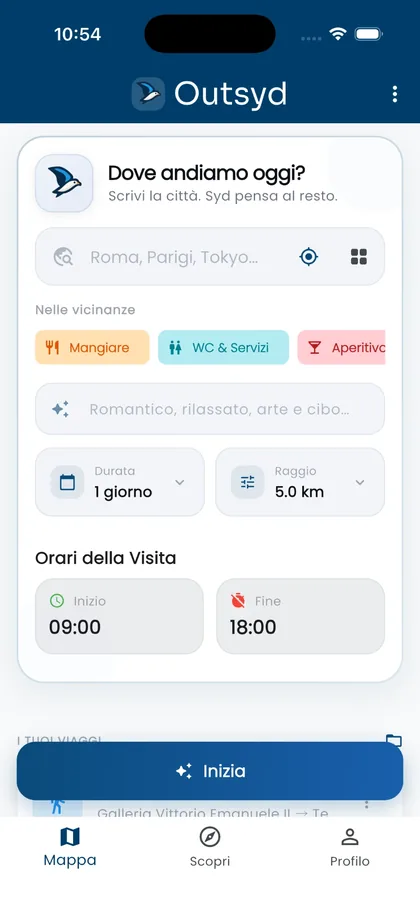
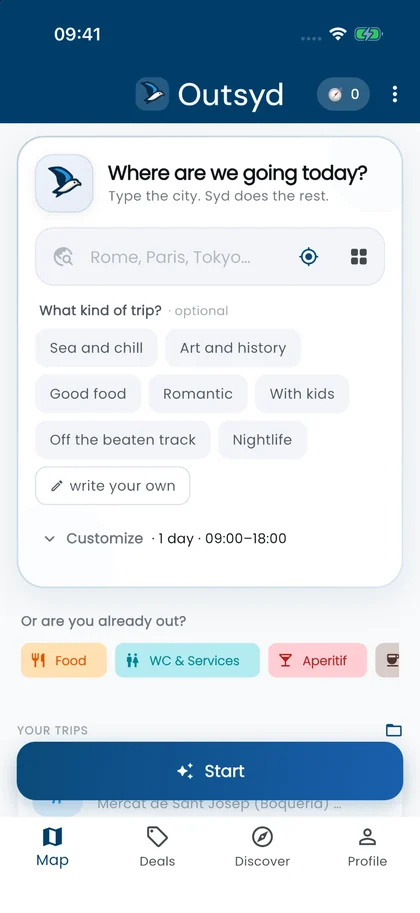
Lumia Italian Living, Zaptopia 1.43, English Outsyd screens
The sofa workshop site moved to lumiaitalianliving.com under its new
brand, so the old Netlify links returned 404. Update the name, links and
screenshots, and correct the case-study copy to match the current site.
Show Zaptopia 1.43, the version on the App Store. English pages now use
English Outsyd home and Rome screens; Italian pages keep the Italian ones.

diff --git a/it/work/nicoletti.html b/it/work/nicoletti.html
@@ -3,13 +3,13 @@
 <head>
   <meta charset="utf-8">
   <meta name="viewport" content="width=device-width, initial-scale=1">
-  <title>Nicoletti Raffaele — Sito vetrina · Gabriele Decandia</title>
+  <title>Lumia Italian Living — Sito vetrina · Gabriele Decandia</title>
   <meta name="description" content="Caso studio: un sito vetrina bilingue e senza cookie per un laboratorio artigianale di divani ad Altamura, con un catalogo rifatto partendo dalle foto scattate in laboratorio.">
   <link rel="canonical" href="https://gabrideca7.github.io/it/work/nicoletti.html">
   <link rel="alternate" hreflang="en" href="https://gabrideca7.github.io/work/nicoletti.html">
   <link rel="alternate" hreflang="it" href="https://gabrideca7.github.io/it/work/nicoletti.html">
   <meta property="og:type" content="article">
-  <meta property="og:title" content="Nicoletti Raffaele — Sito vetrina">
+  <meta property="og:title" content="Lumia Italian Living — Sito vetrina">
   <meta property="og:description" content="Un sito vetrina bilingue per un laboratorio artigianale di divani. Un caso studio di Gabriele Decandia.">
   <meta property="og:url" content="https://gabrideca7.github.io/it/work/nicoletti.html">
   <meta property="og:locale" content="it_IT">
@@ -55,14 +55,14 @@
     <section class="wrap cs-hero">
       <a class="cs-back" href="../#work"><span class="arrow" aria-hidden="true">←</span> Tutti i lavori</a>
       <div class="cs-kicker"><span class="label">Caso studio 03</span><span class="tag tag--live">Online</span></div>
-      <h1 class="cs-title cs-title--long">Nicoletti Raffaele</h1>
-      <p class="lede cs-sub">Un sito vetrina bilingue per un laboratorio artigianale di divani — <em>e un catalogo rifatto partendo dalle foto in laboratorio.</em></p>
+      <h1 class="cs-title cs-title--long">Lumia Italian Living</h1>
+      <p class="lede cs-sub">Un sito vetrina bilingue per un laboratorio artigianale di divani — <em>e un catalogo che sta tutto in un file di dati.</em></p>
 
       <dl class="grid cs-meta">
-        <div><dt class="label">Cliente</dt><dd>Nicoletti Raffaele — divani e letti su misura, Altamura</dd></div>
+        <div><dt class="label">Cliente</dt><dd>Lumia Italian Living (Nicoletti Raffaele) — divani e letti su misura, Altamura</dd></div>
         <div><dt class="label">Ruolo</dt><dd>Design, sviluppo, post-produzione delle immagini, testi</dd></div>
         <div><dt class="label">Tecnologie</dt><dd>HTML · CSS · JavaScript puro<br>Nessun framework, nessuna build</dd></div>
-        <div><dt class="label">Online</dt><dd><a href="https://nicolettiraffaele.netlify.app" target="_blank" rel="noopener">nicolettiraffaele.netlify.app</a><br>2026 · italiano e inglese</dd></div>
+        <div><dt class="label">Online</dt><dd><a href="https://lumiaitalianliving.com" target="_blank" rel="noopener">lumiaitalianliving.com</a><br>2026 · italiano e inglese</dd></div>
       </dl>
     </section>
 
@@ -70,8 +70,8 @@
       <div class="media media--site media--nicoletti">
         <div class="browser-wrap">
           <div class="browser">
-            <div class="browser-bar"><span class="browser-dots"><i></i><i></i><i></i></span><span class="browser-url">nicolettiraffaele.netlify.app</span><span></span></div>
-            <div class="browser-view"><img src="../../assets/img/nicoletti/desk-960.webp" srcset="../../assets/img/nicoletti/desk-960.webp 960w, ../../assets/img/nicoletti/desk-1600.webp 1600w" sizes="(max-width: 700px) 100vw, 64vw" width="960" height="600" alt="La home in inglese: un Chesterfield verde petrolio in una stanza arredata, sotto il titolo «Expertly crafted sofas and beds, made to measure for you»" decoding="async"></div>
+            <div class="browser-bar"><span class="browser-dots"><i></i><i></i><i></i></span><span class="browser-url">lumiaitalianliving.com</span><span></span></div>
+            <div class="browser-view"><img src="../../assets/img/nicoletti/desk-960.webp" srcset="../../assets/img/nicoletti/desk-960.webp 960w, ../../assets/img/nicoletti/desk-1600.webp 1600w" sizes="(max-width: 700px) 100vw, 64vw" width="960" height="600" alt="La home in inglese: un divano componibile in un salotto con vista, sotto il titolo «Expertly crafted sofas and beds, made to measure for you»" decoding="async"></div>
           </div>
         </div>
         <div class="phone phone--web" style="--sb:#31291f; --sbfg:#f4ece2"><div class="phone-screen"><span class="phone-status" aria-hidden="true">9:41<i></i></span><img src="../../assets/img/nicoletti/mobile-420.webp" srcset="../../assets/img/nicoletti/mobile-420.webp 420w, ../../assets/img/nicoletti/mobile-760.webp 760w" sizes="(max-width: 700px) 46vw, 15vw" width="420" height="909" alt="La home su smartphone" decoding="async"></div></div>
@@ -96,7 +96,7 @@
         <div class="cs-body">
           <p class="lede reveal">I prodotti erano bellissimi. Le foto erano scattate tra gommapiuma, telai ed <em>estintori.</em></p>
           <div class="prose reveal">
-            <p>Rifare tutto in studio non era possibile. Così ho scontornato ogni prodotto dalla foto originale con il framework Vision di Apple su macOS e l’ho inserito in un piccolo set di stanze generate — una parete, un pavimento, un tappeto, una lampada o un quadro — in modo che 36 prodotti in cinque collezioni sembrassero un unico catalogo.</p>
+            <p>Rifare tutto in studio non era possibile. Così ho scontornato ogni prodotto dalla foto originale con il framework Vision di Apple su macOS e l’ho inserito in un piccolo set di stanze generate — una parete, un pavimento, un tappeto, una lampada o un quadro — in modo che 36 prodotti in cinque collezioni sembrassero un unico catalogo. Così è nata la prima versione del sito. Oggi il laboratorio è diventato Lumia Italian Living, con dominio, logo e foto ufficiali propri, e lo stesso file di dati gestisce 30 prodotti in quattro collezioni.</p>
           </div>
         </div>
         <figure class="cs-full mt-m reveal">
@@ -141,16 +141,16 @@
           <div class="figure-panel" style="--bg: #e7ddd0">
             <div class="site-showcase">
               <div class="browser" tabindex="0" aria-label="Home completa — passa sopra o seleziona per scorrere">
-                <div class="browser-bar"><span class="browser-dots"><i></i><i></i><i></i></span><span class="browser-url">nicolettiraffaele.netlify.app</span><span></span></div>
+                <div class="browser-bar"><span class="browser-dots"><i></i><i></i><i></i></span><span class="browser-url">lumiaitalianliving.com</span><span></span></div>
                 <div class="browser-view browser-view--scroll">
-                  <img src="../../assets/img/nicoletti/full-1100.webp" width="1100" height="4736" alt="La home completa: apertura, la storia del laboratorio, quattro valori e le collezioni di divani, Chesterfield, divani letto e letti" loading="lazy" decoding="async">
+                  <img src="../../assets/img/nicoletti/full-1100.webp" width="1100" height="7956" alt="La home completa: apertura, la storia del laboratorio, quattro valori e le collezioni di divani, Chesterfield, divani letto e letti" loading="lazy" decoding="async">
                   <span class="scroll-hint">Passa sopra per scorrere</span>
                 </div>
               </div>
               <div class="phone phone--flow phone--web" style="--sb:#31291f; --sbfg:#f4ece2"><div class="phone-screen"><span class="phone-status" aria-hidden="true">9:41<i></i></span><img src="../../assets/img/nicoletti/mobile-420.webp" srcset="../../assets/img/nicoletti/mobile-420.webp 420w, ../../assets/img/nicoletti/mobile-760.webp 760w" sizes="(max-width: 800px) 260px, 22vw" width="420" height="909" alt="La home su smartphone, in inglese" loading="lazy" decoding="async"></div></div>
             </div>
           </div>
-          <figcaption class="fig-caption"><span>Il sito online.</span><a class="text-link" href="https://nicolettiraffaele.netlify.app/" target="_blank" rel="noopener">Visita nicolettiraffaele.netlify.app ↗</a></figcaption>
+          <figcaption class="fig-caption"><span>Il sito online.</span><a class="text-link" href="https://lumiaitalianliving.com/" target="_blank" rel="noopener">Visita lumiaitalianliving.com ↗</a></figcaption>
         </figure>
       </section>
     </div>

diff --git a/work/nicoletti.html b/work/nicoletti.html
@@ -3,13 +3,13 @@
 <head>
   <meta charset="utf-8">
   <meta name="viewport" content="width=device-width, initial-scale=1">
-  <title>Nicoletti Raffaele — Showcase website · Gabriele Decandia</title>
+  <title>Lumia Italian Living — Showcase website · Gabriele Decandia</title>
   <meta name="description" content="Case study: a bilingual, cookie-free showcase website for an artisan sofa workshop in Altamura, with a catalogue rebuilt from photos taken on the workshop floor.">
   <link rel="canonical" href="https://gabrideca7.github.io/work/nicoletti.html">
   <link rel="alternate" hreflang="en" href="https://gabrideca7.github.io/work/nicoletti.html">
   <link rel="alternate" hreflang="it" href="https://gabrideca7.github.io/it/work/nicoletti.html">
   <meta property="og:type" content="article">
-  <meta property="og:title" content="Nicoletti Raffaele — Showcase website">
+  <meta property="og:title" content="Lumia Italian Living — Showcase website">
   <meta property="og:description" content="A bilingual showcase for an artisan sofa workshop. A case study by Gabriele Decandia.">
   <meta property="og:url" content="https://gabrideca7.github.io/work/nicoletti.html">
   <meta property="og:image" content="https://gabrideca7.github.io/assets/img/og.jpg">
@@ -54,14 +54,14 @@
     <section class="wrap cs-hero">
       <a class="cs-back" href="../#work"><span class="arrow" aria-hidden="true">←</span> All work</a>
       <div class="cs-kicker"><span class="label">Case study 03</span><span class="tag tag--live">Live</span></div>
-      <h1 class="cs-title cs-title--long">Nicoletti Raffaele</h1>
-      <p class="lede cs-sub">A bilingual showcase for an artisan sofa workshop — <em>and a catalogue rebuilt from the workshop floor.</em></p>
+      <h1 class="cs-title cs-title--long">Lumia Italian Living</h1>
+      <p class="lede cs-sub">A bilingual showcase for an artisan sofa workshop — <em>and a catalogue that lives in one data file.</em></p>
 
       <dl class="grid cs-meta">
-        <div><dt class="label">Client</dt><dd>Nicoletti Raffaele — sofas and beds made to measure, Altamura</dd></div>
+        <div><dt class="label">Client</dt><dd>Lumia Italian Living (Nicoletti Raffaele) — sofas and beds made to measure, Altamura</dd></div>
         <div><dt class="label">Role</dt><dd>Design, development, image post-production, copy</dd></div>
         <div><dt class="label">Stack</dt><dd>HTML · CSS · vanilla JavaScript<br>No framework, no build step</dd></div>
-        <div><dt class="label">Live</dt><dd><a href="https://nicolettiraffaele.netlify.app" target="_blank" rel="noopener">nicolettiraffaele.netlify.app</a><br>2026 · Italian &amp; English</dd></div>
+        <div><dt class="label">Live</dt><dd><a href="https://lumiaitalianliving.com" target="_blank" rel="noopener">lumiaitalianliving.com</a><br>2026 · Italian &amp; English</dd></div>
       </dl>
     </section>
 
@@ -69,8 +69,8 @@
       <div class="media media--site media--nicoletti">
         <div class="browser-wrap">
           <div class="browser">
-            <div class="browser-bar"><span class="browser-dots"><i></i><i></i><i></i></span><span class="browser-url">nicolettiraffaele.netlify.app</span><span></span></div>
-            <div class="browser-view"><img src="../assets/img/nicoletti/desk-960.webp" srcset="../assets/img/nicoletti/desk-960.webp 960w, ../assets/img/nicoletti/desk-1600.webp 1600w" sizes="(max-width: 700px) 100vw, 64vw" width="960" height="600" alt="Homepage: a teal Chesterfield in a styled room with the headline “Expertly crafted sofas and beds, made to measure for you”" decoding="async"></div>
+            <div class="browser-bar"><span class="browser-dots"><i></i><i></i><i></i></span><span class="browser-url">lumiaitalianliving.com</span><span></span></div>
+            <div class="browser-view"><img src="../assets/img/nicoletti/desk-960.webp" srcset="../assets/img/nicoletti/desk-960.webp 960w, ../assets/img/nicoletti/desk-1600.webp 1600w" sizes="(max-width: 700px) 100vw, 64vw" width="960" height="600" alt="Homepage: a modular sofa in a living room with a view, with the headline “Expertly crafted sofas and beds, made to measure for you”" decoding="async"></div>
           </div>
         </div>
         <div class="phone phone--web" style="--sb:#31291f; --sbfg:#f4ece2"><div class="phone-screen"><span class="phone-status" aria-hidden="true">9:41<i></i></span><img src="../assets/img/nicoletti/mobile-420.webp" srcset="../assets/img/nicoletti/mobile-420.webp 420w, ../assets/img/nicoletti/mobile-760.webp 760w" sizes="(max-width: 700px) 46vw, 15vw" width="420" height="909" alt="The homepage on a phone" decoding="async"></div></div>
@@ -95,7 +95,7 @@
         <div class="cs-body">
           <p class="lede reveal">The products were beautiful. The photos were taken between foam, frames and <em>fire extinguishers.</em></p>
           <div class="prose reveal">
-            <p>A studio reshoot wasn’t on the table. Instead I cut each product out of its original photo with Apple’s Vision framework on macOS and composited it into a small set of generated rooms — a wall, a floor, a rug, a lamp or a framed print — so that 36 products across five collections read as one catalogue.</p>
+            <p>A studio reshoot wasn’t on the table. Instead I cut each product out of its original photo with Apple’s Vision framework on macOS and composited it into a small set of generated rooms — a wall, a floor, a rug, a lamp or a framed print — so that 36 products across five collections read as one catalogue. That carried the first version of the site. The workshop has since become Lumia Italian Living, with its own domain, logo and official photo set, and the same data file now runs 30 products in four collections.</p>
           </div>
         </div>
         <figure class="cs-full mt-m reveal">
@@ -140,16 +140,16 @@
           <div class="figure-panel" style="--bg: #e7ddd0">
             <div class="site-showcase">
               <div class="browser" tabindex="0" aria-label="Full homepage — hover or focus to scroll">
-                <div class="browser-bar"><span class="browser-dots"><i></i><i></i><i></i></span><span class="browser-url">nicolettiraffaele.netlify.app</span><span></span></div>
+                <div class="browser-bar"><span class="browser-dots"><i></i><i></i><i></i></span><span class="browser-url">lumiaitalianliving.com</span><span></span></div>
                 <div class="browser-view browser-view--scroll">
-                  <img src="../assets/img/nicoletti/full-1100.webp" width="1100" height="4736" alt="The full homepage: hero, workshop story, four values, and the sofa, Chesterfield, sofa-bed and bed collections" loading="lazy" decoding="async">
+                  <img src="../assets/img/nicoletti/full-1100.webp" width="1100" height="7956" alt="The full homepage: hero, workshop story, four values, and the sofa, Chesterfield, sofa-bed and bed collections" loading="lazy" decoding="async">
                   <span class="scroll-hint">Hover to scroll</span>
                 </div>
               </div>
               <div class="phone phone--flow phone--web" style="--sb:#31291f; --sbfg:#f4ece2"><div class="phone-screen"><span class="phone-status" aria-hidden="true">9:41<i></i></span><img src="../assets/img/nicoletti/mobile-420.webp" srcset="../assets/img/nicoletti/mobile-420.webp 420w, ../assets/img/nicoletti/mobile-760.webp 760w" sizes="(max-width: 800px) 260px, 22vw" width="420" height="909" alt="Mobile homepage in English" loading="lazy" decoding="async"></div></div>
             </div>
           </div>
-          <figcaption class="fig-caption"><span>The live site.</span><a class="text-link" href="https://nicolettiraffaele.netlify.app/?lang=en" target="_blank" rel="noopener">Visit nicolettiraffaele.netlify.app ↗</a></figcaption>
+          <figcaption class="fig-caption"><span>The live site.</span><a class="text-link" href="https://lumiaitalianliving.com/?lang=en" target="_blank" rel="noopener">Visit lumiaitalianliving.com ↗</a></figcaption>
         </figure>
       </section>
     </div>

diff --git a/it/index.html b/it/index.html
@@ -94,7 +94,7 @@
         </p>
         <dl class="hero-facts reveal" style="--delay: .12s">
           <div><dt class="label">Vivo a</dt><dd>Altamura, Puglia</dd></div>
-          <div><dt class="label">Adesso</dt><dd><span class="live-dot" aria-hidden="true"></span>Zaptopia 1.42 è su App Store — Android a novembre</dd></div>
+          <div><dt class="label">Adesso</dt><dd><span class="live-dot" aria-hidden="true"></span>Zaptopia 1.43 è su App Store — Android a novembre</dd></div>
           <div><dt class="label">Poi</dt><dd>Magistrale in Cybersecurity, Università di Pisa</dd></div>
           <div><dt class="label">Novembre</dt><dd>In viaggio negli Stati Uniti — incontriamoci</dd></div>
         </dl>
@@ -115,8 +115,8 @@
           <a class="media media--outsyd" href="work/outsyd.html" aria-label="Outsyd — leggi il caso studio">
             <img class="syd" src="../assets/img/outsyd/syd-360.webp" width="360" height="324" alt="" loading="lazy" decoding="async">
             <div class="phone"><div class="phone-screen"><img src="../assets/img/outsyd/napoli-420.webp" srcset="../assets/img/outsyd/napoli-420.webp 420w, ../assets/img/outsyd/napoli-760.webp 760w" sizes="(max-width: 700px) 42vw, 22vw" width="420" height="913" alt="Outsyd: l’itinerario di una giornata a Napoli disegnato sulla mappa" loading="lazy" decoding="async"></div></div>
-            <div class="phone"><div class="phone-screen"><img src="../assets/img/outsyd/home-420.webp" srcset="../assets/img/outsyd/home-420.webp 420w, ../assets/img/outsyd/home-760.webp 760w" sizes="(max-width: 700px) 52vw, 26vw" width="420" height="913" alt="La schermata iniziale di Outsyd: «Dove andiamo oggi?»" loading="lazy" decoding="async"></div></div>
-            <div class="phone"><div class="phone-screen"><img src="../assets/img/outsyd/roma-420.webp" srcset="../assets/img/outsyd/roma-420.webp 420w, ../assets/img/outsyd/roma-760.webp 760w" sizes="(max-width: 700px) 42vw, 22vw" width="420" height="913" alt="Outsyd: un percorso a piedi per Roma con le tappe numerate" loading="lazy" decoding="async"></div></div>
+            <div class="phone"><div class="phone-screen"><img src="../assets/img/outsyd/home-it-420.webp" srcset="../assets/img/outsyd/home-it-420.webp 420w, ../assets/img/outsyd/home-it-760.webp 760w" sizes="(max-width: 700px) 52vw, 26vw" width="420" height="913" alt="La schermata iniziale di Outsyd: «Dove andiamo oggi?»" loading="lazy" decoding="async"></div></div>
+            <div class="phone"><div class="phone-screen"><img src="../assets/img/outsyd/roma-it-420.webp" srcset="../assets/img/outsyd/roma-it-420.webp 420w, ../assets/img/outsyd/roma-it-760.webp 760w" sizes="(max-width: 700px) 42vw, 22vw" width="420" height="913" alt="Outsyd: un percorso a piedi per Roma con le tappe numerate" loading="lazy" decoding="async"></div></div>
             <span class="media-caption">iOS · Android · Online</span>
           </a>
           <div class="grid project-info">
@@ -164,19 +164,19 @@
         <!-- 03 + 04 Websites -->
         <div class="project-pair">
           <article class="project reveal">
-            <a class="media media--43 media--site media--nicoletti" href="work/nicoletti.html" aria-label="Nicoletti Raffaele — leggi il caso studio">
+            <a class="media media--43 media--site media--nicoletti" href="work/nicoletti.html" aria-label="Lumia Italian Living — leggi il caso studio">
               <div class="browser-wrap">
                 <div class="browser">
-                  <div class="browser-bar"><span class="browser-dots"><i></i><i></i><i></i></span><span class="browser-url">nicolettiraffaele.netlify.app</span><span></span></div>
-                  <div class="browser-view"><img src="../assets/img/nicoletti/desk-960.webp" srcset="../assets/img/nicoletti/desk-960.webp 960w, ../assets/img/nicoletti/desk-1600.webp 1600w" sizes="(max-width: 900px) 90vw, 40vw" width="960" height="600" alt="Il sito di Nicoletti Raffaele: un Chesterfield verde petrolio in una stanza arredata, versione inglese" loading="lazy" decoding="async"></div>
+                  <div class="browser-bar"><span class="browser-dots"><i></i><i></i><i></i></span><span class="browser-url">lumiaitalianliving.com</span><span></span></div>
+                  <div class="browser-view"><img src="../assets/img/nicoletti/desk-960.webp" srcset="../assets/img/nicoletti/desk-960.webp 960w, ../assets/img/nicoletti/desk-1600.webp 1600w" sizes="(max-width: 900px) 90vw, 40vw" width="960" height="600" alt="Il sito di Lumia Italian Living: un divano componibile in un salotto con vista, versione inglese" loading="lazy" decoding="async"></div>
                 </div>
               </div>
-              <div class="phone phone--web" style="--sb:#31291f; --sbfg:#f4ece2"><div class="phone-screen"><span class="phone-status" aria-hidden="true">9:41<i></i></span><img src="../assets/img/nicoletti/mobile-420.webp" srcset="../assets/img/nicoletti/mobile-420.webp 420w, ../assets/img/nicoletti/mobile-760.webp 760w" sizes="(max-width: 700px) 46vw, 10vw" width="420" height="909" alt="Il sito di Nicoletti Raffaele su smartphone, in inglese" loading="lazy" decoding="async"></div></div>
+              <div class="phone phone--web" style="--sb:#31291f; --sbfg:#f4ece2"><div class="phone-screen"><span class="phone-status" aria-hidden="true">9:41<i></i></span><img src="../assets/img/nicoletti/mobile-420.webp" srcset="../assets/img/nicoletti/mobile-420.webp 420w, ../assets/img/nicoletti/mobile-760.webp 760w" sizes="(max-width: 700px) 46vw, 10vw" width="420" height="909" alt="Il sito di Lumia Italian Living su smartphone, in inglese" loading="lazy" decoding="async"></div></div>
             </a>
             <div class="grid project-info">
               <span class="project-num mono">03</span>
-              <h3 class="project-title"><a href="work/nicoletti.html">Nicoletti Raffaele</a></h3>
-              <p class="project-desc">Sito vetrina bilingue per il laboratorio di divani di mio zio. Scritto a mano, senza cookie, con un catalogo che sta tutto in un file di dati — e ogni foto rifatta partendo dagli scatti in laboratorio.</p>
+              <h3 class="project-title"><a href="work/nicoletti.html">Lumia Italian Living</a></h3>
+              <p class="project-desc">Sito vetrina bilingue per il laboratorio di divani di mio zio. Scritto a mano, senza cookie, con un catalogo che sta tutto in un file di dati.</p>
               <div class="project-side">
                 <ul class="tags" aria-label="Tag">
                   <li class="tag tag--live">Online</li>

diff --git a/it/work/outsyd.html b/it/work/outsyd.html
@@ -70,8 +70,8 @@
       <div class="media media--outsyd">
         <img class="syd" src="../../assets/img/outsyd/syd-360.webp" width="360" height="324" alt="Syd, l’uccellino mascotte di Outsyd" decoding="async">
         <div class="phone"><div class="phone-screen"><img src="../../assets/img/outsyd/napoli-420.webp" srcset="../../assets/img/outsyd/napoli-420.webp 420w, ../../assets/img/outsyd/napoli-760.webp 760w" sizes="(max-width: 700px) 42vw, 22vw" width="420" height="913" alt="L’itinerario di una giornata a Napoli disegnato sulla mappa" decoding="async"></div></div>
-        <div class="phone"><div class="phone-screen"><img src="../../assets/img/outsyd/home-420.webp" srcset="../../assets/img/outsyd/home-420.webp 420w, ../../assets/img/outsyd/home-760.webp 760w" sizes="(max-width: 700px) 52vw, 26vw" width="420" height="913" alt="La schermata iniziale di Outsyd che chiede dove andiamo oggi" decoding="async"></div></div>
-        <div class="phone"><div class="phone-screen"><img src="../../assets/img/outsyd/roma-420.webp" srcset="../../assets/img/outsyd/roma-420.webp 420w, ../../assets/img/outsyd/roma-760.webp 760w" sizes="(max-width: 700px) 42vw, 22vw" width="420" height="913" alt="Un percorso a piedi per Roma con le tappe numerate" decoding="async"></div></div>
+        <div class="phone"><div class="phone-screen"><img src="../../assets/img/outsyd/home-it-420.webp" srcset="../../assets/img/outsyd/home-it-420.webp 420w, ../../assets/img/outsyd/home-it-760.webp 760w" sizes="(max-width: 700px) 52vw, 26vw" width="420" height="913" alt="La schermata iniziale di Outsyd che chiede dove andiamo oggi" decoding="async"></div></div>
+        <div class="phone"><div class="phone-screen"><img src="../../assets/img/outsyd/roma-it-420.webp" srcset="../../assets/img/outsyd/roma-it-420.webp 420w, ../../assets/img/outsyd/roma-it-760.webp 760w" sizes="(max-width: 700px) 42vw, 22vw" width="420" height="913" alt="Un percorso a piedi per Roma con le tappe numerate" decoding="async"></div></div>
         <span class="media-caption media-caption--top media-caption--r">App bilingue · schermate in italiano</span>
       </div>
     </section>
@@ -105,7 +105,7 @@
         <figure class="cs-full mt-l reveal">
           <div class="phones-row" style="--bg: #0a2a4a">
             <figure>
-              <div class="phone phone--flow"><div class="phone-screen"><img src="../../assets/img/outsyd/home-420.webp" srcset="../../assets/img/outsyd/home-420.webp 420w, ../../assets/img/outsyd/home-760.webp 760w" sizes="(max-width: 700px) 60vw, 24vw" width="420" height="913" alt="Home: scegli città, durata, distanza e orari di visita" loading="lazy" decoding="async"></div></div>
+              <div class="phone phone--flow"><div class="phone-screen"><img src="../../assets/img/outsyd/home-it-420.webp" srcset="../../assets/img/outsyd/home-it-420.webp 420w, ../../assets/img/outsyd/home-it-760.webp 760w" sizes="(max-width: 700px) 60vw, 24vw" width="420" height="913" alt="Home: scegli città, durata, distanza e orari di visita" loading="lazy" decoding="async"></div></div>
               <figcaption class="label" style="color:#9fbad3">Si parte da una città</figcaption>
             </figure>
             <figure>
@@ -113,7 +113,7 @@
               <figcaption class="label" style="color:#9fbad3">Napoli, in ordine sulla mappa</figcaption>
             </figure>
             <figure>
-              <div class="phone phone--flow"><div class="phone-screen"><img src="../../assets/img/outsyd/roma-420.webp" srcset="../../assets/img/outsyd/roma-420.webp 420w, ../../assets/img/outsyd/roma-760.webp 760w" sizes="(max-width: 700px) 60vw, 24vw" width="420" height="913" alt="Itinerario a Roma che parte da Castel Sant’Angelo" loading="lazy" decoding="async"></div></div>
+              <div class="phone phone--flow"><div class="phone-screen"><img src="../../assets/img/outsyd/roma-it-420.webp" srcset="../../assets/img/outsyd/roma-it-420.webp 420w, ../../assets/img/outsyd/roma-it-760.webp 760w" sizes="(max-width: 700px) 60vw, 24vw" width="420" height="913" alt="Itinerario a Roma che parte da Castel Sant’Angelo" loading="lazy" decoding="async"></div></div>
               <figcaption class="label" style="color:#9fbad3">Roma a piedi, tappa dopo tappa</figcaption>
             </figure>
           </div>

diff --git a/index.html b/index.html
@@ -93,7 +93,7 @@
         </p>
         <dl class="hero-facts reveal" style="--delay: .12s">
           <div><dt class="label">Based in</dt><dd>Altamura, Puglia, Italy</dd></div>
-          <div><dt class="label">Now</dt><dd><span class="live-dot" aria-hidden="true"></span>Zaptopia 1.42 is live on the App Store — Android in November</dd></div>
+          <div><dt class="label">Now</dt><dd><span class="live-dot" aria-hidden="true"></span>Zaptopia 1.43 is live on the App Store — Android in November</dd></div>
           <div><dt class="label">Next</dt><dd>M.Sc. Cybersecurity, University of Pisa</dd></div>
           <div><dt class="label">November</dt><dd>Travelling in the United States — let’s meet</dd></div>
         </dl>
@@ -163,19 +163,19 @@
         <!-- 03 + 04 Websites -->
         <div class="project-pair">
           <article class="project reveal">
-            <a class="media media--43 media--site media--nicoletti" href="work/nicoletti.html" aria-label="Nicoletti Raffaele — read the case study">
+            <a class="media media--43 media--site media--nicoletti" href="work/nicoletti.html" aria-label="Lumia Italian Living — read the case study">
               <div class="browser-wrap">
                 <div class="browser">
-                  <div class="browser-bar"><span class="browser-dots"><i></i><i></i><i></i></span><span class="browser-url">nicolettiraffaele.netlify.app</span><span></span></div>
-                  <div class="browser-view"><img src="assets/img/nicoletti/desk-960.webp" srcset="assets/img/nicoletti/desk-960.webp 960w, assets/img/nicoletti/desk-1600.webp 1600w" sizes="(max-width: 900px) 90vw, 40vw" width="960" height="600" alt="Nicoletti Raffaele website: a teal Chesterfield in a styled room, headline “Expertly crafted sofas and beds”" loading="lazy" decoding="async"></div>
+                  <div class="browser-bar"><span class="browser-dots"><i></i><i></i><i></i></span><span class="browser-url">lumiaitalianliving.com</span><span></span></div>
+                  <div class="browser-view"><img src="assets/img/nicoletti/desk-960.webp" srcset="assets/img/nicoletti/desk-960.webp 960w, assets/img/nicoletti/desk-1600.webp 1600w" sizes="(max-width: 900px) 90vw, 40vw" width="960" height="600" alt="Lumia Italian Living website: a modular sofa in a living room with a view, headline “Expertly crafted sofas and beds”" loading="lazy" decoding="async"></div>
                 </div>
               </div>
-              <div class="phone phone--web" style="--sb:#31291f; --sbfg:#f4ece2"><div class="phone-screen"><span class="phone-status" aria-hidden="true">9:41<i></i></span><img src="assets/img/nicoletti/mobile-420.webp" srcset="assets/img/nicoletti/mobile-420.webp 420w, assets/img/nicoletti/mobile-760.webp 760w" sizes="(max-width: 700px) 46vw, 10vw" width="420" height="909" alt="Nicoletti Raffaele website on a phone, in English" loading="lazy" decoding="async"></div></div>
+              <div class="phone phone--web" style="--sb:#31291f; --sbfg:#f4ece2"><div class="phone-screen"><span class="phone-status" aria-hidden="true">9:41<i></i></span><img src="assets/img/nicoletti/mobile-420.webp" srcset="assets/img/nicoletti/mobile-420.webp 420w, assets/img/nicoletti/mobile-760.webp 760w" sizes="(max-width: 700px) 46vw, 10vw" width="420" height="909" alt="Lumia Italian Living website on a phone, in English" loading="lazy" decoding="async"></div></div>
             </a>
             <div class="grid project-info">
               <span class="project-num mono">03</span>
-              <h3 class="project-title"><a href="work/nicoletti.html">Nicoletti Raffaele</a></h3>
-              <p class="project-desc">Bilingual showcase for my uncle’s sofa workshop. Hand-coded, cookie-free, with a catalogue that lives in one data file — and every photo rebuilt from the workshop floor.</p>
+              <h3 class="project-title"><a href="work/nicoletti.html">Lumia Italian Living</a></h3>
+              <p class="project-desc">Bilingual showcase for my uncle’s sofa workshop. Hand-coded, cookie-free, with a catalogue that lives in one data file.</p>
               <div class="project-side">
                 <ul class="tags" aria-label="Tags">
                   <li class="tag tag--live">Live</li>

diff --git a/it/work/zaptopia.html b/it/work/zaptopia.html
@@ -60,7 +60,7 @@
 
       <dl class="grid cs-meta">
         <div><dt class="label">Ruolo</dt><dd>Da solo — game design, sviluppo, direzione artistica, rilascio</dd></div>
-        <div><dt class="label">Periodo</dt><dd>Settembre 2026 — in corso<br>Versione 1.42</dd></div>
+        <div><dt class="label">Periodo</dt><dd>Settembre 2026 — in corso<br>Versione 1.43</dd></div>
         <div><dt class="label">Tecnologie</dt><dd>TypeScript · Phaser 3 · Three.js · Vite · Capacitor · Supabase</dd></div>
         <div><dt class="label">Stato</dt><dd><a href="https://apps.apple.com/app/id6819222989" target="_blank" rel="noopener">Disponibile su App Store</a><br>Google Play: inizio novembre 2026</dd></div>
       </dl>
@@ -197,7 +197,7 @@
           <p class="lede reveal"><em>36 build di rilascio</em> nelle prime tre settimane.</p>
           <div class="prose reveal">
             <p>Ogni build viene firmata, provata su un emulatore per scovare i crash e caricata sul test chiuso di Google Play e su TestFlight. I tester ricevono un avviso nell’app quando esce una versione nuova, e un piccolo feed di notizie mi permette di parlare con loro senza pubblicare un aggiornamento.</p>
-            <p>La versione 1.42 è ora disponibile su App Store. Google Play chiede un test chiuso di due settimane con almeno dodici tester prima che una nuova app possa andare in produzione, quindi Android arriva a inizio novembre.</p>
+            <p>La versione 1.43 è ora disponibile su App Store. Google Play chiede un test chiuso di due settimane con almeno dodici tester prima che una nuova app possa andare in produzione, quindi Android arriva a inizio novembre.</p>
             <p>Anche tutto quello che sta intorno al gioco è codice: script Python generano il font di icone, le varianti del logo e i dorsi delle carte, e uno script con Chrome headless cattura gli screenshot per gli store direttamente dal gioco in esecuzione.</p>
           </div>
         </div>
@@ -206,7 +206,7 @@
 
     <a class="next wrap" href="nicoletti.html">
       <span class="label">Prossimo caso studio</span>
-      <span class="next-title">Nicoletti Raffaele <span class="arrow" aria-hidden="true">→</span></span>
+      <span class="next-title">Lumia Italian Living <span class="arrow" aria-hidden="true">→</span></span>
     </a>
   </main>
 

diff --git a/work/zaptopia.html b/work/zaptopia.html
@@ -59,7 +59,7 @@
 
       <dl class="grid cs-meta">
         <div><dt class="label">Role</dt><dd>Solo — game design, development, art direction, release</dd></div>
-        <div><dt class="label">Timeline</dt><dd>September 2026 — ongoing<br>Version 1.42</dd></div>
+        <div><dt class="label">Timeline</dt><dd>September 2026 — ongoing<br>Version 1.43</dd></div>
         <div><dt class="label">Stack</dt><dd>TypeScript · Phaser 3 · Three.js · Vite · Capacitor · Supabase</dd></div>
         <div><dt class="label">Status</dt><dd><a href="https://apps.apple.com/app/id6819222989" target="_blank" rel="noopener">Live on the App Store</a><br>Google Play: early November 2026</dd></div>
       </dl>
@@ -196,7 +196,7 @@
           <p class="lede reveal"><em>36 release builds</em> in the first three weeks.</p>
           <div class="prose reveal">
             <p>Every build is signed, smoke-tested on an emulator for crashes and uploaded to Google Play’s closed track and TestFlight. Testers get an in-app prompt when a new version is out, and a small news feed lets me talk to them without shipping an update.</p>
-            <p>Version 1.42 is now live on the App Store. Google Play asks for a two-week closed test with at least twelve testers before a new app can reach production, so Android follows in early November.</p>
+            <p>Version 1.43 is now live on the App Store. Google Play asks for a two-week closed test with at least twelve testers before a new app can reach production, so Android follows in early November.</p>
             <p>The pipeline around the game is code too: Python scripts generate the icon font, logo variants and card backs, and a headless-Chrome script captures the store screenshots straight from the running game.</p>
           </div>
         </div>
@@ -205,7 +205,7 @@
 
     <a class="next wrap" href="nicoletti.html">
       <span class="label">Next case study</span>
-      <span class="next-title">Nicoletti Raffaele <span class="arrow" aria-hidden="true">→</span></span>
+      <span class="next-title">Lumia Italian Living <span class="arrow" aria-hidden="true">→</span></span>
     </a>
   </main>
 

diff --git a/work/outsyd.html b/work/outsyd.html
@@ -104,7 +104,7 @@
         <figure class="cs-full mt-l reveal">
           <div class="phones-row" style="--bg: #0a2a4a">
             <figure>
-              <div class="phone phone--flow"><div class="phone-screen"><img src="../assets/img/outsyd/home-420.webp" srcset="../assets/img/outsyd/home-420.webp 420w, ../assets/img/outsyd/home-760.webp 760w" sizes="(max-width: 700px) 60vw, 24vw" width="420" height="913" alt="Home: pick a city, duration, distance and visiting hours" loading="lazy" decoding="async"></div></div>
+              <div class="phone phone--flow"><div class="phone-screen"><img src="../assets/img/outsyd/home-420.webp" srcset="../assets/img/outsyd/home-420.webp 420w, ../assets/img/outsyd/home-760.webp 760w" sizes="(max-width: 700px) 60vw, 24vw" width="420" height="913" alt="Home: pick a city and the kind of trip" loading="lazy" decoding="async"></div></div>
               <figcaption class="label" style="color:#9fbad3">Start with a city</figcaption>
             </figure>
             <figure>
@@ -112,7 +112,7 @@
               <figcaption class="label" style="color:#9fbad3">Naples, ordered on the map</figcaption>
             </figure>
             <figure>
-              <div class="phone phone--flow"><div class="phone-screen"><img src="../assets/img/outsyd/roma-420.webp" srcset="../assets/img/outsyd/roma-420.webp 420w, ../assets/img/outsyd/roma-760.webp 760w" sizes="(max-width: 700px) 60vw, 24vw" width="420" height="913" alt="Rome itinerary starting at Castel Sant’Angelo" loading="lazy" decoding="async"></div></div>
+              <div class="phone phone--flow"><div class="phone-screen"><img src="../assets/img/outsyd/roma-420.webp" srcset="../assets/img/outsyd/roma-420.webp 420w, ../assets/img/outsyd/roma-760.webp 760w" sizes="(max-width: 700px) 60vw, 24vw" width="420" height="913" alt="Rome itinerary with seven stops on the map" loading="lazy" decoding="async"></div></div>
               <figcaption class="label" style="color:#9fbad3">Rome on foot, stop by stop</figcaption>
             </figure>
           </div>
